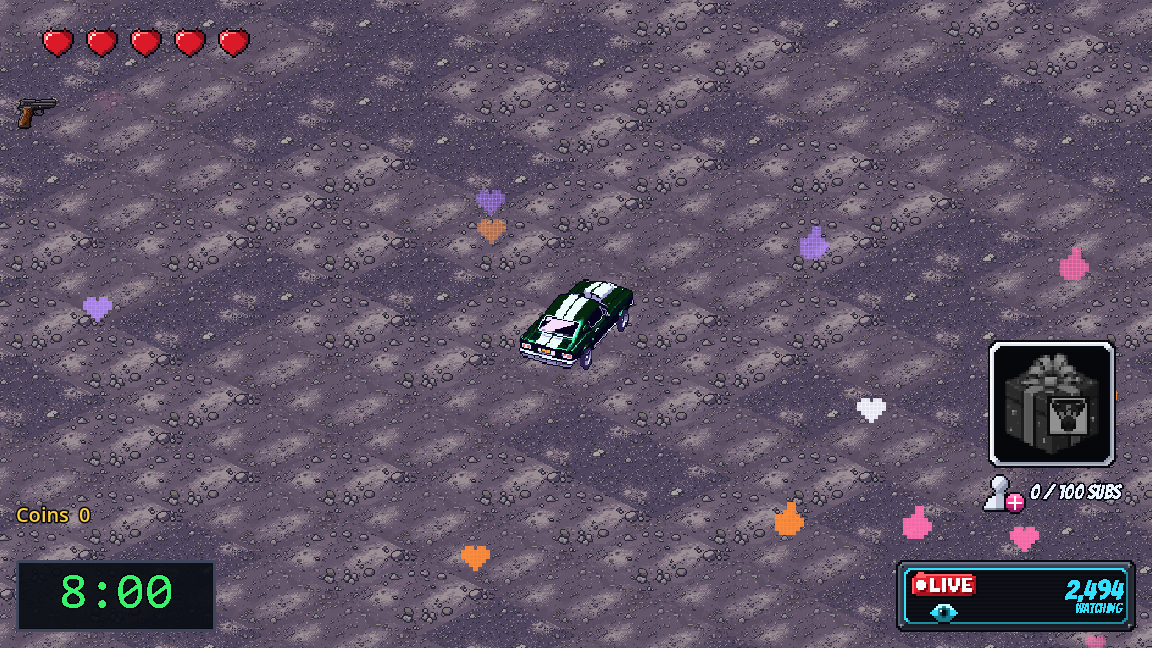
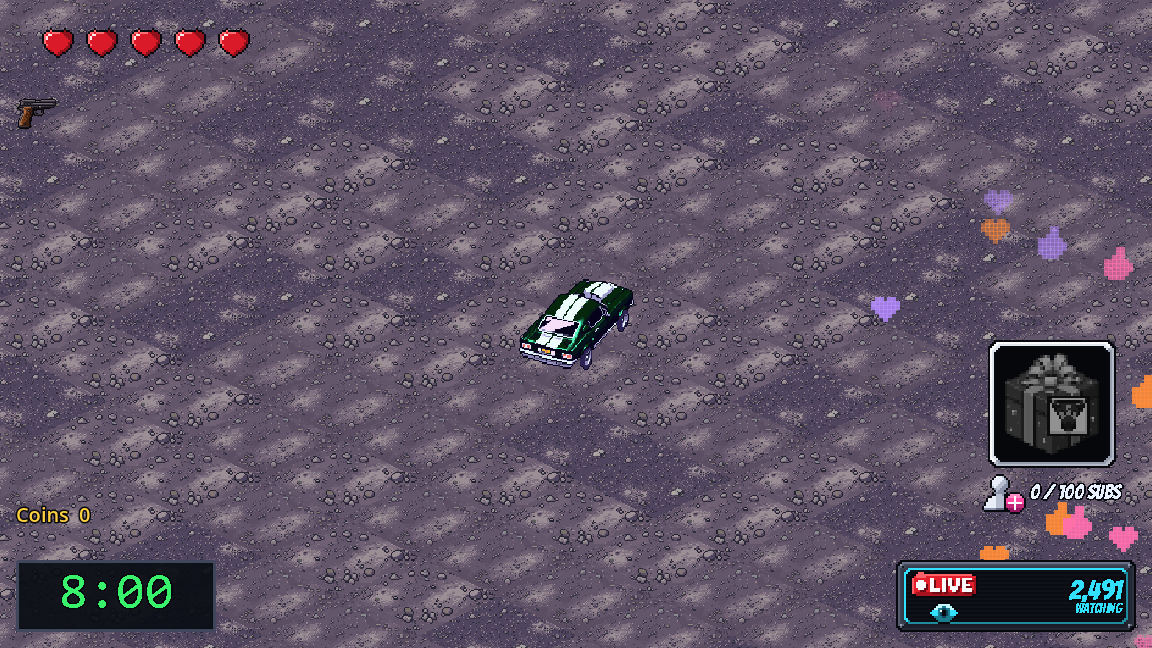
T-351: floaters only from the viewers counter's side (quick tuning)

diff --git a/docs/hud-and-menus.md b/docs/hud-and-menus.md
@@ -67,7 +67,7 @@ The first piece of the HUD (task T-090) is the run timer. It shows the time left
 - **Bottom left, above the clock:** "Coins" followed by the number collected this run, in yellow. Moved there from the top right (board, 2026-10-28; T-341). Saved layout at 1152 x 648: x16, y496, 108 x 36 (28 pixels above the clock), anchored to the bottom-left corner so it keeps its margins at other window sizes.
 - **Timer clock (task T-335, the livestream HUD):** the timer is at the bottom left, 200 x 72 pixels with its corner 16 pixels from the left and bottom edges (the board's layout page, saved at 1152 x 648: x16 y560), anchored to that corner so it keeps its margins at other window sizes; the coins counter sits above it (T-341). Dark panel, digits as "M:SS", glowing. The digits are **green** above 3:00, **yellow** to 1:30, **orange** to 0:30 and **red** below (proposals; numbers and colours in `game/data/hud.json`, `timer_clock`). Placeholder look drawn in code (a monospace font) until the clock art (T-339). Nothing at the top centre any more.
 - **Live viewers counter (task T-336, the livestream HUD; Decisions, "The HUD looks like a livestream" and "Tricks bring viewers, shown in one colour"):** the combo counter ("Combo x2.00" above the likes bar) is gone; the combo shows as the stream's live viewers at the bottom right, 240 x 72 pixels with its corner 16 pixels from the right and bottom edges (the board's layout page at 1152 x 648: x896 y560), anchored to that corner. It is T-339's dark viewers panel with the red LIVE badge and the viewers' eye on its left, and on its right the number over "WATCHING" (T-331's texts, Livestream HUD texts below), in the comic font. It always shows, even with no combo (2,500 viewers at x1). The number counts toward the viewers for the current multiplier (T-332's curve, speeds and short format, Game loop architecture, ViewersData): up after tricks, down when the combo drains or a crash cuts it, and it wobbles a little all the time, so it never sits still while the run goes; everything stands still while the game is paused. **One viewers colour:** cyan (#33e1ff, T-339's panel rim and eye; a proposal), used for nothing else in the HUD: the number at the base look, "WATCHING", the eye and the trick popups' amounts. **Heat:** the look changes on T-332's steps (20,000, 84,736 and 236,026 viewers, the same moments as the old x2, x3 and x4): at each step the number grows (28, 30, 32 and 34 pixels) and takes the old combo counter's heat colour, glow and pulse (yellow, then orange with a yellow glow, then white-hot with a flickering glow); from 1,000,000 viewers the panel is **on fire** (T-339's 12 fire frames, a one second loop round the panel). The step follows the number the counter is counting toward, so it heats up when a trick's viewers land. **Tricks bring viewers:** each trick popup shows its name and "+{viewers}" (the viewers the trick brought, T-332's `trick_gain`, for example "ALT DRIFT! +5,938" or "+12.0K") with the eye after it, in the viewers colour with a black outline, at every heat step (the popups' rings and flames are unchanged). 0.3 seconds after the popup shows, its amount leaves it (the bubble stays, with the name only) and flies across the screen on an arc into the counter's number in 0.55 seconds, speeding up as it goes; the trick's viewers count in when it lands, and the counter **bumps** (a quick pop of the number and a cyan flash of the panel). A popup pushed out by the three-popup limit before its amount left lets its viewers in at once. **Crashes:** when a crash cuts the combo (the COMBO BROKEN! popup, as before), the counter **flashes red** (the combo broken popup's warning red-orange, number included, 0.45 seconds) and "-{viewers lost}" (T-332's `crash_loss`, for example "-226K") in that red drops away from it, falling and fading over 0.9 seconds, while the number falls. The combo draining away is not a crash: no flash, no drop. The timings and sizes are proposals for the playtest, in `game/data/hud.json` (`viewers_counter`). The likes bar's fire at x4 and the drift marks keep today's combo heat (T-337 replaces the likes bar). How it is built: `game/docs/hud-and-menus/hud.md`, "Live viewers counter (HUD)".
-- **Reaction icons (task T-351, the livestream HUD; Decisions, "Reactions like a livestream"):** little pixel hearts and thumbs up (placeholders drawn in code, in pink, orange, violet and white; the art is T-352), 90 percent opaque, 4 screen pixels per art pixel, 60 on screen at most, under every other HUD piece. **A burst:** when the sub goal is reached (once per goal), 10 icons pop out of the sub goal square at once, fan up and out, slow down and fade within about two seconds. **Floating up like a real stream's live reactions (quick tuning, board, 2026-10-28):** from random spots **anywhere along the bottom edge**, icons rise up the screen, a flow of 1 or 2 at a time at uneven gaps (the mean gap times a random 0.4 to 1.8), each popping in from half size, swaying a little and fading out as they near the top. None at the base step (below 20K viewers); from the first heat step a lively flow, busier at each: 2, 3.5 and 5 groups per second at the three heat steps and 7.5 at the fire step (from 1M). The board's choice replaces the first idea of keeping them to the left and right thirds and off the car: they may pass by the car. Pause freezes them; a new run clears them. All the numbers are proposals for the playtest, in `game/data/hud.json` (`reactions`). Where the code is: `game/docs/hud-and-menus/hud.md`, "Reaction icons".
+- **Reaction icons (task T-351, the livestream HUD; Decisions, "Reactions like a livestream"):** little pixel hearts and thumbs up (placeholders drawn in code, in pink, orange, violet and white; the art is T-352), 90 percent opaque, 4 screen pixels per art pixel, 60 on screen at most, under every other HUD piece. **A burst:** when the sub goal is reached (once per goal), 10 icons pop out of the sub goal square at once, fan up and out, slow down and fade within about two seconds. **Floating up like a real stream's live reactions (quick tuning, board, 2026-10-28):** from random spots **on the right side, over the live viewers counter's width** (the side where the view count is; the board, 2026-10-28), icons rise up the right side of the screen, a flow of 1 or 2 at a time at uneven gaps (the mean gap times a random 0.4 to 1.8), each popping in from half size, swaying a little and fading out as they near the top. None at the base step (below 20K viewers); from the first heat step a lively flow, busier at each: 2, 3.5 and 5 groups per second at the three heat steps and 7.5 at the fire step (from 1M). The board's choice replaces the first idea of the left and right thirds and the second, anywhere along the bottom: they stay on the viewers counter's side and never drift into the middle where the car is. Pause freezes them; a new run clears them. All the numbers are proposals for the playtest, in `game/data/hud.json` (`reactions`). Where the code is: `game/docs/hud-and-menus/hud.md`, "Reaction icons".
 
 **The kaiju's health bar (task T-050, decision of 2026-10-15 below):** a bar on top of the kaiju in the world, following it. It is hidden until the kaiju appears, shows its health (it follows the run's kaiju health signal) and disappears when the kaiju dies or a new run starts. It is as wide as the kaiju's drawing (the width comes from the kaiju's sprite, so the final art keeps it fitting) and sits just above its head. It is a neon purple fill on a white background with a black outline (stepped pixel corners, as in the combo popups) and thin black dividers at every 10% of its health; hard pixel edges, drawn in code, no text and no red. It always draws above every building, as the trick popups do. How it is built is in `game/docs/enemies/kaiju.md`, "The kaiju's health bar". The arrow to the nearest challenge is not in the MVP (T-098). The HUD stays clear of the trick popups (near the car) and the pause strip (below the timer); while paused, the strip's dark band runs across the whole width over the lower part of the health bar.
 

diff --git a/game/docs/hud-and-menus/hud.md b/game/docs/hud-and-menus/hud.md
@@ -35,4 +35,4 @@ Task T-336 (what it shows: `docs/hud-and-menus.md`, Content, "Live viewers count
 
 ## Reaction icons (HUD)
 
-Task T-351 (what they do: `docs/hud-and-menus.md`, Content, "Reaction icons"). `scripts/hud/reactions.gd` (`Reactions`, `hud.reactions`, a full-screen pausable Control that ignores the mouse) is the Hud's first child (`_build_reactions()`), so every other HUD piece draws over it. It holds `items` (a dictionary per icon: kind, colour, centre `pos`, `vel`, `age`, `life`, sway `phase`, `floater`) and draws them in `_draw()` from two pixel grids (`HEART`, `THUMB`, `icon_scale` 4 pixels per cell) in `COLORS` (pink, orange, violet, white: none the viewers cyan, the heart red or Greenbull's) at `alpha_of()` (fade in over `fade_in`, hold, fade out over the last half, times `alpha` 0.9). The art is a placeholder; T-352 swaps in the final icons (only `_draw()` and the grids change). `advance(dt)` (the `_process`, and for tests) asks `step_source` (the Hud gives it `viewers_counter.step`) for the look step, takes the rate from `rate_for_step()` (`rates_per_second`, 0 below the first heat step, a lively flow from it, busier at each) and, when `next_in` runs out, `spawn_group()`s 1 or 2 floaters at a random x along the whole bottom edge (`edge_margin` in from each side; they may pass by the car), then sets the next gap to 1 / rate times a random `gap_min_share` to `gap_max_share`. A floater climbs at `rise_min` to `rise_max` to near the top (its life is 92 percent of the screen height over its speed), with a `wobble_px` sway, fading out from `fade_out_from` of its life, and a scale pop (`scale_of()`, `pop_from` to 1 over `pop_seconds`). `burst(origin)` (the Hud calls it from `_on_level_up()` with the sub goal square's centre, so once per goal) makes `burst_count` icons with random upward velocities that slow by `burst_drag`; older icons make room so the total never passes `cap` (60). `clear()` is called by `Hud.bind()` (a new run). `rng` is a `RandomNumberGenerator` (tests seed it); `area_override` sets the screen size in tests. Numbers: `data/hud.json` `reactions`. Tests: `tests/unit/hud/test_hud_reactions.gd` (the rates per step, none below the first and a flow from it, uneven gaps, the seed, random x across the whole width, the fade, the cap, the burst's start and end, once per goal, drawn under the HUD, pause, a new run, placeholder colours). Screenshots and GIFs: `bash game/tools/record_reactions.sh` (fixture `tests/fixtures/reactions_demo.tscn`, `REACTIONS_MODE` burst_still, float_still, burst_gif, float_gif), saved in `art-archive/T-351/screenshots/`.
+Task T-351 (what they do: `docs/hud-and-menus.md`, Content, "Reaction icons"). `scripts/hud/reactions.gd` (`Reactions`, `hud.reactions`, a full-screen pausable Control that ignores the mouse) is the Hud's first child (`_build_reactions()`), so every other HUD piece draws over it. It holds `items` (a dictionary per icon: kind, colour, centre `pos`, `vel`, `age`, `life`, sway `phase`, `floater`) and draws them in `_draw()` from two pixel grids (`HEART`, `THUMB`, `icon_scale` 4 pixels per cell) in `COLORS` (pink, orange, violet, white: none the viewers cyan, the heart red or Greenbull's) at `alpha_of()` (fade in over `fade_in`, hold, fade out over the last half, times `alpha` 0.9). The art is a placeholder; T-352 swaps in the final icons (only `_draw()` and the grids change). `advance(dt)` (the `_process`, and for tests) asks `step_source` (the Hud gives it `viewers_counter.step`) for the look step, takes the rate from `rate_for_step()` (`rates_per_second`, 0 below the first heat step, a lively flow from it, busier at each) and, when `next_in` runs out, `spawn_group()`s 1 or 2 floaters below the bottom edge at a random x in the right-side lane over the viewers counter (`lane_from` 0.76 to `lane_to` 0.99 of the width), then sets the next gap to 1 / rate times a random `gap_min_share` to `gap_max_share`. A floater climbs at `rise_min` to `rise_max` to near the top (its life is 92 percent of the screen height over its speed), with a `wobble_px` sway, fading out from `fade_out_from` of its life, and a scale pop (`scale_of()`, `pop_from` to 1 over `pop_seconds`). `burst(origin)` (the Hud calls it from `_on_level_up()` with the sub goal square's centre, so once per goal) makes `burst_count` icons with random upward velocities that slow by `burst_drag`; older icons make room so the total never passes `cap` (60). `clear()` is called by `Hud.bind()` (a new run). `rng` is a `RandomNumberGenerator` (tests seed it); `area_override` sets the screen size in tests. Numbers: `data/hud.json` `reactions`. Tests: `tests/unit/hud/test_hud_reactions.gd` (the rates per step, none below the first and a flow from it, uneven gaps, the seed, the right-side lane and never the middle, the fade, the cap, the burst's start and end, once per goal, drawn under the HUD, pause, a new run, placeholder colours). Screenshots and GIFs: `bash game/tools/record_reactions.sh` (fixture `tests/fixtures/reactions_demo.tscn`, `REACTIONS_MODE` burst_still, float_still, burst_gif, float_gif), saved in `art-archive/T-351/screenshots/`.

diff --git a/tasks/T-351-reaction-bursts-on-a-sub-goal-and-at-high-viewers.md b/tasks/T-351-reaction-bursts-on-a-sub-goal-and-at-high-viewers.md
@@ -85,5 +85,7 @@ Quick tuning (board, 2026-10-28; its first message was garbled by dictation, cor
 
 Quick tuning 2 (board, 2026-10-28: "i want them to float up faster"): floaters' `rise_min` and `rise_max` in `hud.json` doubled, 90 to 160 becomes 180 to 320 px per second (also the `DEFAULT_CFG` in `reactions.gd`). A floater's life is 92 percent of the screen height over its speed, so they still climb to near the top and fade the same way, in about half the time. No test pinned the speeds. Full runs: GUT 1812/1812, `game/tools` 645 OK, `tools` 545 OK. `art-archive/T-351/screenshots/reactions_float.gif` retaken.
 
+Quick tuning 3 (board, 2026-10-28: "it doesn't look good to be all over the screen. Make it so that it only floats up from the side of the screen where the view count is at."): floaters now start below the bottom edge at a random x in a right-side lane over the viewers counter, 0.76 to 0.99 of the screen width (about x875 to 1140 at 1152), set by `lane_from` and `lane_to` in `hud.json` `reactions` (they replace `edge_margin`), and rise up the right side with the same sway, never into the middle. Speed, size, alpha, rates and cap kept (the cap of 60 is now never reached in the lane at these rates). The burst is unchanged. Tests: the whole-width spawn test became a right-side-lane test, plus a new test that floaters never drift left of 0.7 of the width (20 in `test_hud_reactions.gd`). Docs: `docs/hud-and-menus.md` (the right side replaces "anywhere along the bottom") and `game/docs/hud-and-menus/hud.md`. Full runs: GUT 1813/1813, `game/tools` 645 OK, `tools` 545 OK. Screenshots retaken: `reactions_float.png` and `.gif`.
+
 - 2026-10-28, needs-playtest → in-progress: The board: I think there aren't enough reactions floating up. I didn't want them to be floating up from anywhere at the bottom of the screen towards the top. I want to look more like a live stream when you get live interactions, and the reactions kind of float up. They're too discrete at the moment for me to make them a bit more noticeable. Other than that, everything is okay.
 - 2026-10-28, in-progress → in-qa: Ready for the board to play (quick tuning)
